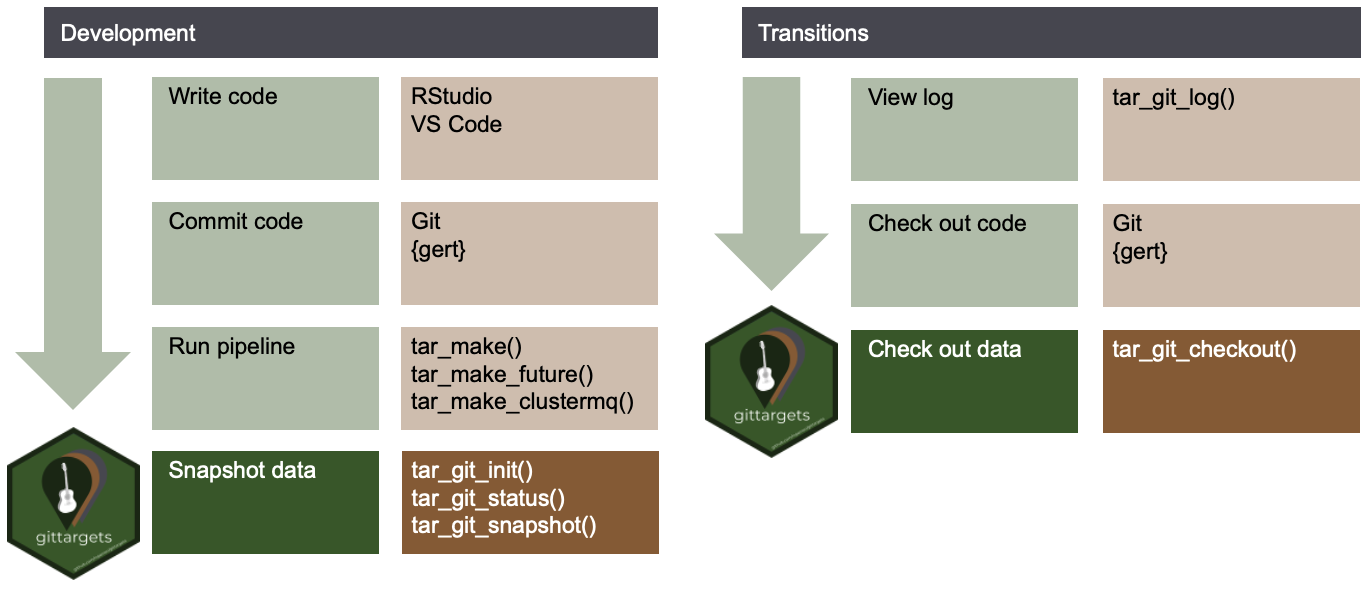
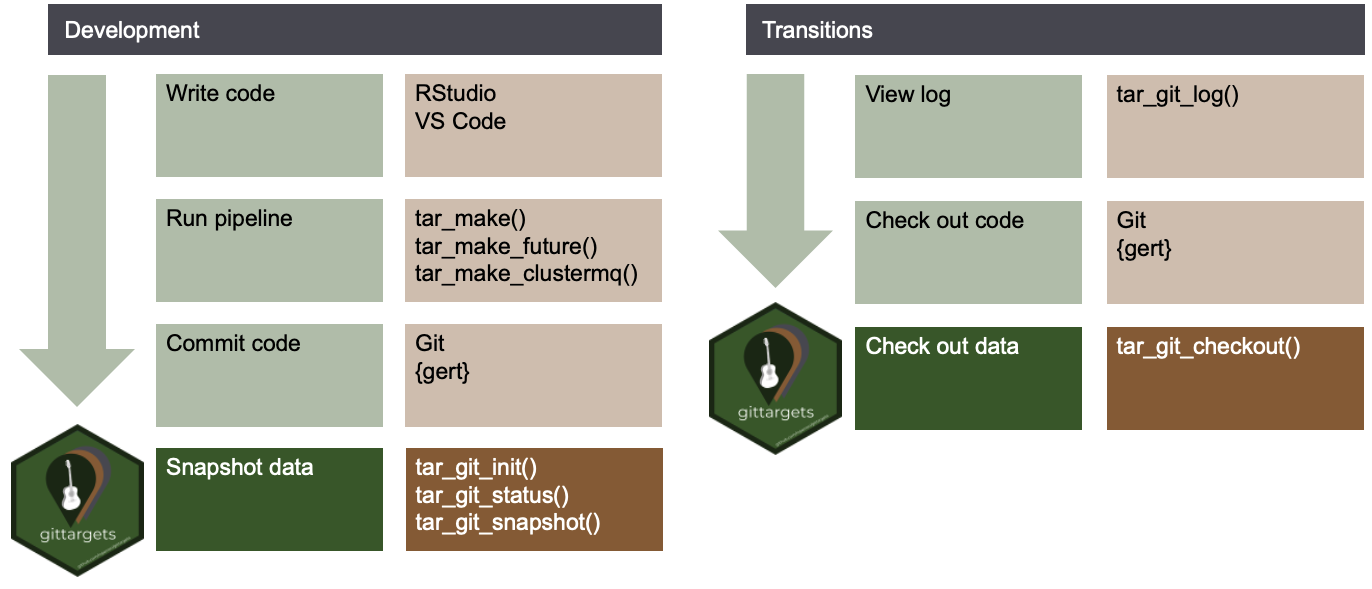
Fix #6

diff --git a/README.md b/README.md
@@ -44,8 +44,8 @@ pipeline.
 
 ### Development
 
-When you develop a reproducible analysis project, you write R code,
-commit the code to a branch, run the pipeline, and repeat. `gittargets`
+When you develop a reproducible analysis project, you write R code, run
+the pipeline, commit the code to a branch, and repeat. `gittargets`
 enters the picture at the end of each one of these development cycles.
 When the code files are up to date in the Git repository and the targets
 are up to date in the pipeline, `gittargets` can snapshot the [`targets`
